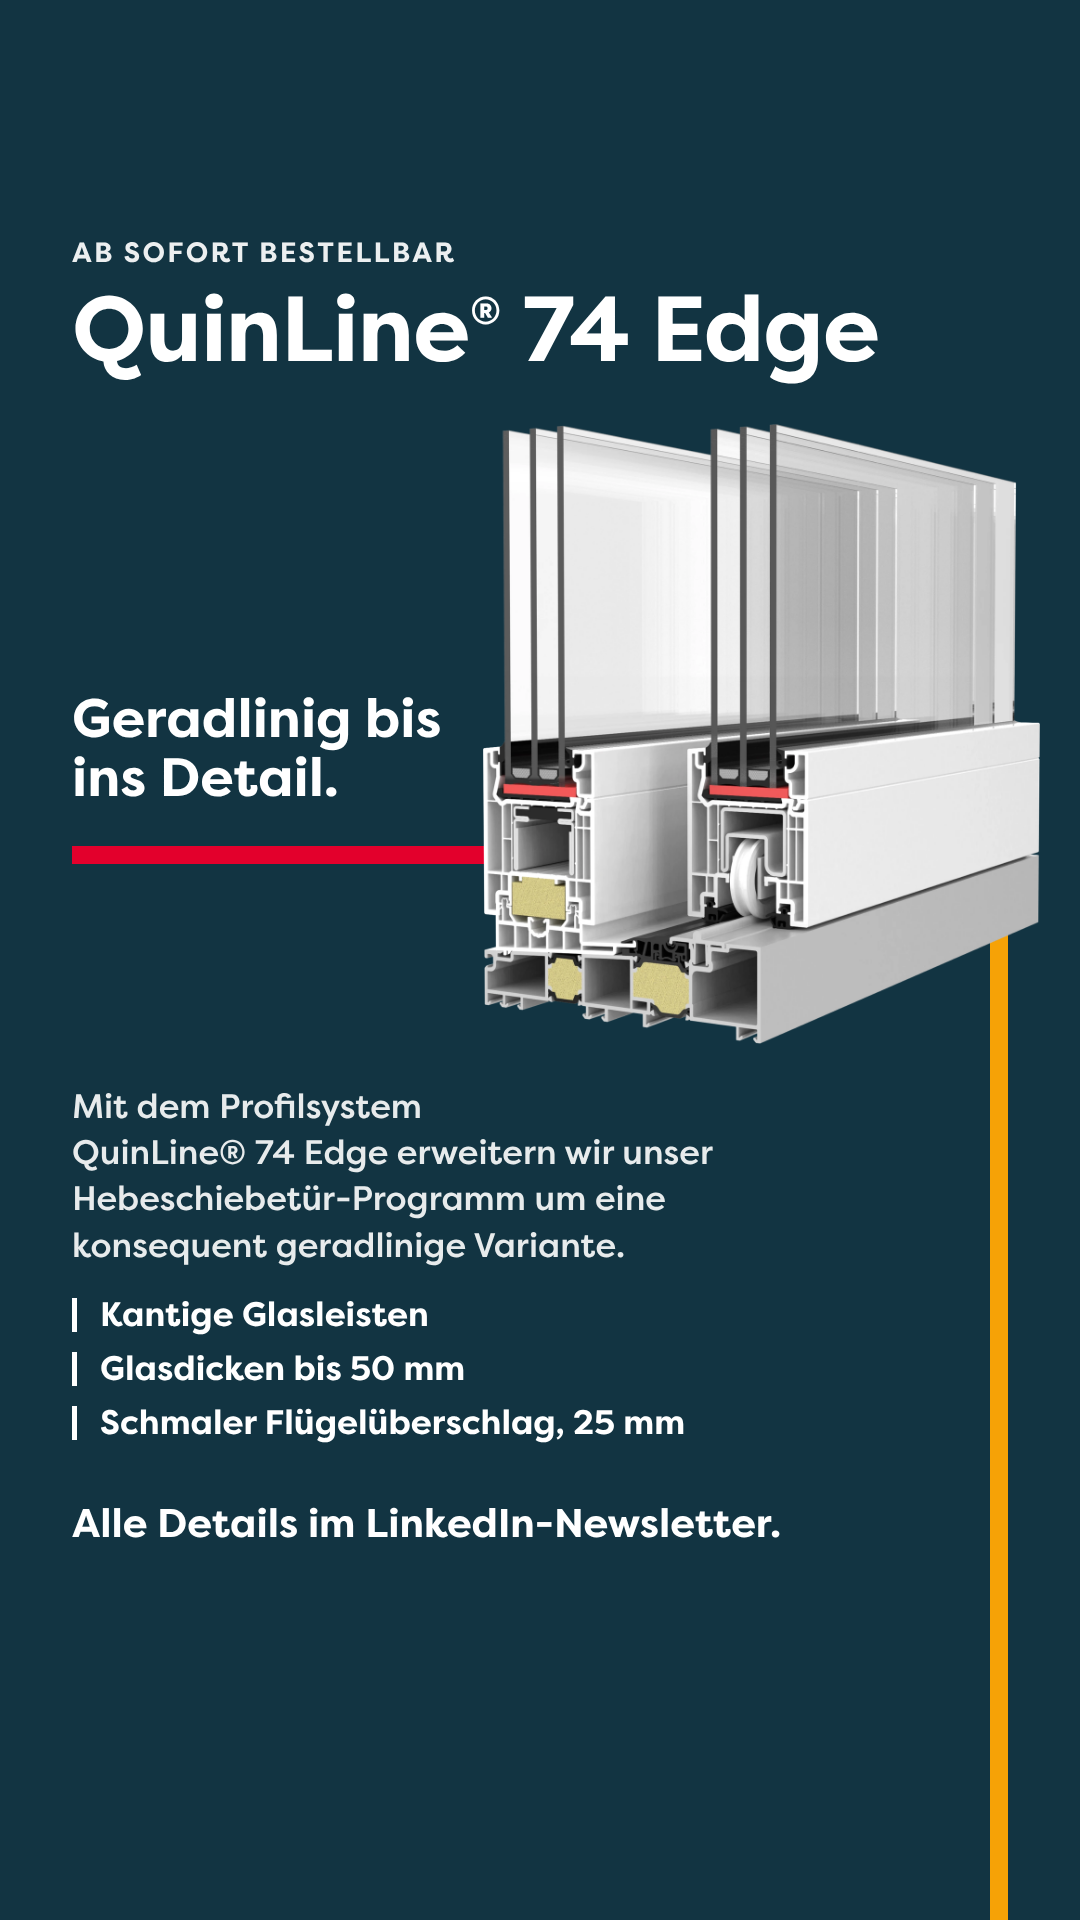
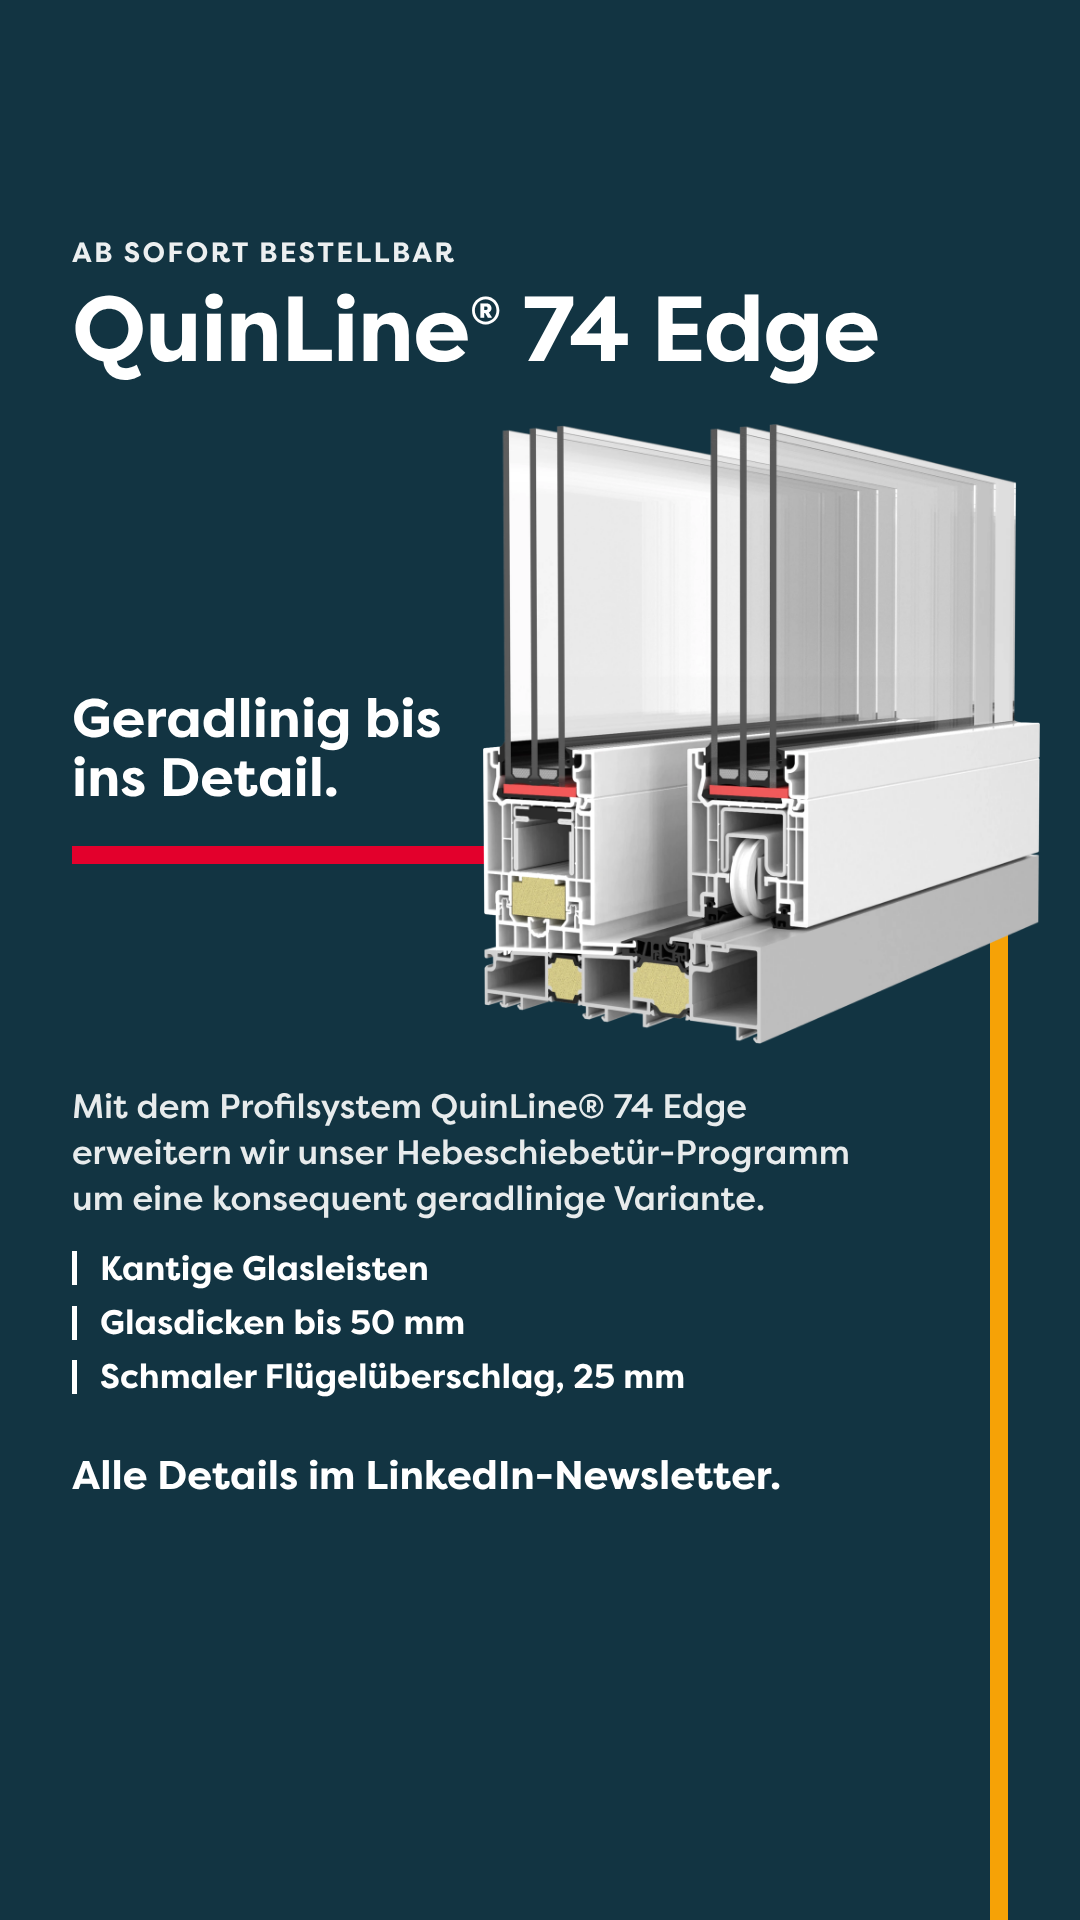
Instagram-Story Edge: Text in drei Zeilen, Produktname in der ersten Zeile
Claude-Session: https://claude.ai/code/session_01VKPZfVgBXYvpnS8mXiiVA7

Changed region(s): [[0.0611, 0.5625, 0.7944, 0.8125]]

diff --git a/projects/newsletter-ql74-edge/source/instagram-story.html b/projects/newsletter-ql74-edge/source/instagram-story.html
@@ -23,15 +23,14 @@ h1 sup{font-size:.42em;line-height:0;vertical-align:.95em;margin-left:.04em;lett
 .line-yellow{position:absolute;left:990px;top:900px;bottom:0;width:18px;background:var(--yellow);z-index:1}
 /* Rendering freigestellt (transparenter Hintergrund), vollständig sichtbar */
 .render{position:absolute;right:40px;top:424px;height:620px;width:auto;display:block;z-index:2}
-.body{position:absolute;left:72px;top:1084px;width:770px}
+.body{position:absolute;left:72px;top:1084px;width:880px}
 .text{margin:0;font-weight:500;font-size:var(--copy);line-height:1.36;color:var(--soft)}
 .nobr{white-space:nowrap}
-.text{text-wrap:balance}
 ul{margin:24px 0 0;padding:0;list-style:none}
 li{position:relative;padding-left:28px;margin:0 0 10px;font-weight:700;font-size:var(--copy);line-height:1.3;color:var(--white)}
 li:last-child{margin-bottom:0}
 li::before{content:"";position:absolute;left:0;top:.14em;width:5px;height:1em;background:var(--white)}
-.cta{position:absolute;left:72px;top:1500px;font-weight:700;font-size:40px;line-height:1.2;white-space:nowrap}
+.cta{position:absolute;left:72px;top:1452px;font-weight:700;font-size:40px;line-height:1.2;white-space:nowrap}
 </style>
 </head>
 <body>
@@ -43,7 +42,7 @@ li::before{content:"";position:absolute;left:0;top:.14em;width:5px;height:1em;ba
   <div class="line-yellow"></div>
   <img class="render" src="../renders/images/render-ql74-edge-freigestellt.png" alt="Schnittmodell der QuinLine® 74 Edge">
   <div class="body">
-    <p class="text">Mit dem Profilsystem <span class="nobr">QuinLine®&nbsp;74 Edge</span> erweitern wir unser <span class="nobr">Hebeschiebetür-Programm</span> um eine konsequent geradlinige Variante.</p>
+    <p class="text">Mit dem Profilsystem <span class="nobr">QuinLine®&nbsp;74 Edge</span><br>erweitern wir unser <span class="nobr">Hebeschiebetür-Programm</span><br>um eine konsequent geradlinige Variante.</p>
     <ul>
       <li>Kantige Glasleisten</li>
       <li>Glasdicken bis 50&nbsp;mm</li>
@@ -51,7 +50,7 @@ li::before{content:"";position:absolute;left:0;top:.14em;width:5px;height:1em;ba
     </ul>
   </div>
   <div class="cta">Alle Details im LinkedIn-Newsletter.</div>
-  <!-- frei für den Link-Sticker: ca. y 1580–1700 (links neben dem orangen Strich) -->
+  <!-- frei für den Link-Sticker: ca. y 1530–1700 (links neben dem orangen Strich) -->
 </div>
 </body>
 </html>
